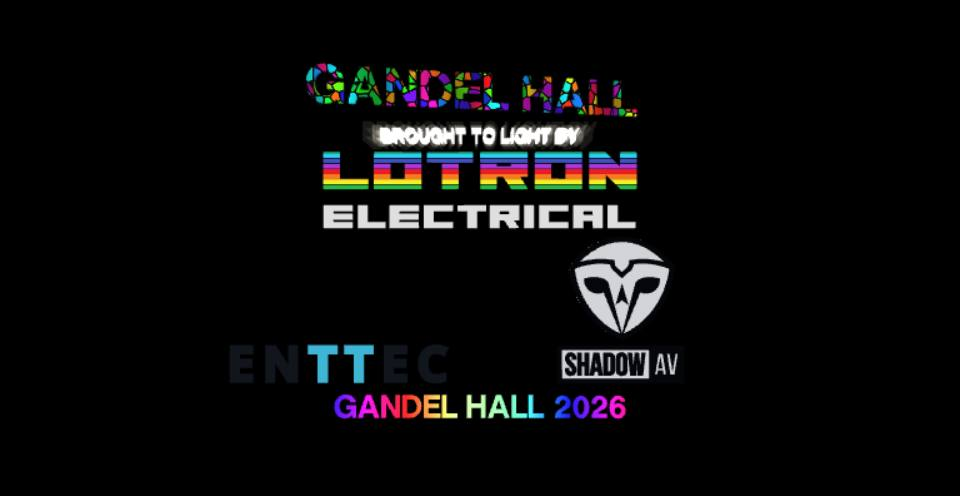
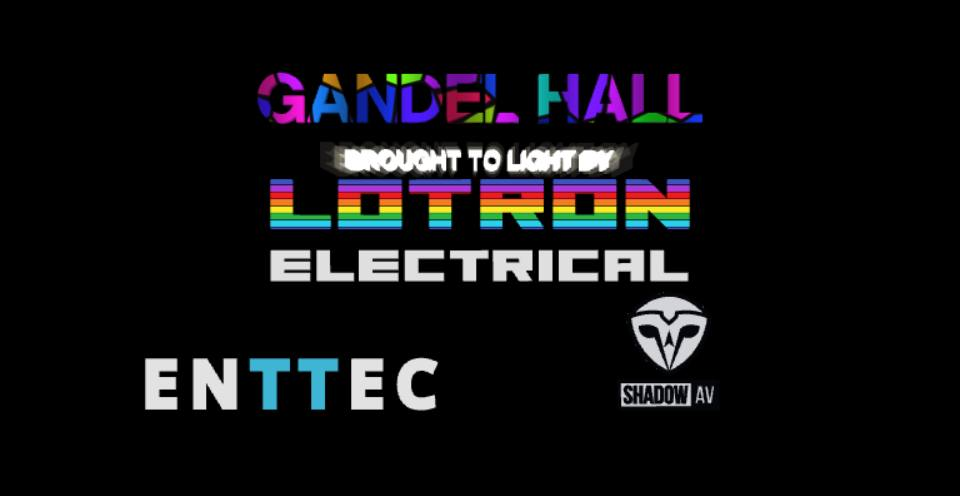
The finale (Lloyd's note, V3) and shot 6: no GANDEL HALL 2026 at the foot (the finale text line is empty; put text back to bring it back); the big GANDEL HALL is low-poly Voronoi glass (panes nearly a letter tall), level and turned square to the camera; ENTTEC's graphite letters go white on the blac
Claude-Session: https://claude.ai/code/session_01JupC9g6UHnowKAwqZM7atT

Changed region(s): [[0.125, 0.121, 0.75, 0.8468]]

diff --git a/index.html b/index.html
@@ -1778,7 +1778,9 @@ function buildCourt(){
   // in common to match on and either dimension used alone leaves one of them a toy beside the
   // others. Width: well inside the disc even sitting ringR off the axis. Height: a shield may stand
   // about twice the height of the two-line Lotron mark. Whichever limit it meets first wins.
-  const maxW=W*0.7, maxH=H*4;
+  // (Lloyd, finale V3) the shield no more than 2.4 Lotron heights, so ENTTEC and Shadow AV come
+  // out about the same size
+  const maxW=W*0.7, maxH=H*2.4;
   const k=Math.min(maxW/(box.max.x-box.min.x), maxH/(box.max.y-box.min.y));
   const grp=new THREE.Group();
   for(const {g,mat,lift} of gs){
@@ -1795,7 +1797,7 @@ function buildCourt(){
  // read as nothing at all. Graphite holds on the paving AND against the night sky behind it.
  // the silver is pushed back a hair in the depth buffer so the ink standing on it never fights it
  const inkMat=new THREE.MeshBasicMaterial({color:0x15171b}), silverMat=new THREE.MeshBasicMaterial({color:0xd4d8de,polygonOffset:true,polygonOffsetFactor:1,polygonOffsetUnits:2}),
-       graphiteMat=new THREE.MeshBasicMaterial({color:0x23272e}), blueMat=new THREE.MeshBasicMaterial({color:0x15a6df});
+       graphiteMat=(court.userData.graphite=new THREE.MeshBasicMaterial({color:0x23272e})), blueMat=new THREE.MeshBasicMaterial({color:0x15a6df});
  partners=[
   // ENTTEC a third of a turn round, its own two blue letters kept
   partner([{d:PARTNER_LOGOS.enttec.white,mat:graphiteMat},{d:PARTNER_LOGOS.enttec.blue,mat:blueMat}], 2*Math.PI/3),
@@ -3339,9 +3341,9 @@ function finaleLayout(){ const {H,W,T}=logo.userData; const pt=Math.max(...partn
  // the year sits at the foot (0.3 up, 0.6 H tall), the partners clear of it, Lotron clear of them
  // (Lloyd, V2) closer together: the partners nearer the middle and Lotron nearer them; and the
  // big GANDEL HALL above the tag, its height in the framing
- const yBot=0.3+0.45*H+1.0, yTop=yBot+pt+0.5, dx=W*0.45, tagY=yTop+T+H*0.5, ts=tag&&tag.userData.size||H*0.34, gBot=tagY+ts*0.85+H*0.35, gH=H*0.95;
+ const yearTxt=TX1('finale',''), yBot=yearTxt?0.3+0.45*H+1.0:0.5, yTop=yBot+pt+0.5, dx=W*0.45, tagY=yTop+T+H*0.5, ts=tag&&tag.userData.size||H*0.34, gBot=tagY+ts*0.85+H*0.35, gH=H*0.95;
  return {H,W,T,yTop,yBot,dx,top:gBot+gH+H*0.2,tagY,gBot,gH,wTot:1.8*W}; }
-function gandelBuild(L){ if(gandelText||!buildCourt.font)return;
+function gandelBuild(L){ if(gandelText||!buildCourt.font)return; if(!TX1('finale','')){ gandelTopBuild(L); return; }
  gandelMat=new THREE.ShaderMaterial({uniforms:{t:{value:0},op:{value:0},x0:{value:0},x1:{value:1}},transparent:true,depthWrite:false,toneMapped:false,
   vertexShader:`varying vec3 vP; void main(){ vP=position; gl_Position=projectionMatrix*modelViewMatrix*vec4(position,1.0); }`,
   // a rainbow running along the letters, sliding slowly, with a soft white glint sweeping over it
@@ -3351,11 +3353,12 @@ function gandelBuild(L){ if(gandelText||!buildCourt.font)return;
  const tg=new TextGeometry(TX1('finale','GANDEL HALL 2026'),{font:buildCourt.font,size:L.H*0.6,height:0.08,curveSegments:3,bevelEnabled:false});
  tg.computeBoundingBox(); const b=tg.boundingBox; tg.translate(-(b.min.x+b.max.x)/2,0,0); tg.computeBoundingBox();
  gandelMat.uniforms.x0.value=tg.boundingBox.min.x; gandelMat.uniforms.x1.value=tg.boundingBox.max.x;
- gandelText=new THREE.Mesh(tg,gandelMat); gandelText.position.set(0,0.3,0); gandelText.visible=false; turntable.add(gandelText);
+ gandelText=new THREE.Mesh(tg,gandelMat); gandelText.position.set(0,0.3,0); gandelText.visible=false; turntable.add(gandelText); gandelTopBuild(L); }
+function gandelTopBuild(L){ if(gandelTop||!buildCourt.font)return;
  // (Lloyd, V2) GANDEL HALL, large, in Voronoi stained glass, above BROUGHT TO LIGHT BY; in the
  // court group like the tag, facing the hall, placed by finaleStep
-  // (Lloyd, V4) low poly: the panes half a letter tall, whatever the size, so the words read
- gandelTopMat=makeGlassMat(false); gandelTopMat.uniforms.cell.value=L.gH*0.5; const tg2=new TextGeometry(TX1('finale-top','GANDEL HALL'),{font:buildCourt.font,size:L.gH,height:0.12,curveSegments:3,bevelEnabled:true,bevelThickness:0.02,bevelSize:0.015,bevelSegments:2});
+  // (Lloyd, finale V3) low poly: the panes nearly a letter tall, so the words read
+ gandelTopMat=makeGlassMat(false); gandelTopMat.uniforms.cell.value=L.gH*0.9; const tg2=new TextGeometry(TX1('finale-top','GANDEL HALL'),{font:buildCourt.font,size:L.gH,height:0.12,curveSegments:3,bevelEnabled:true,bevelThickness:0.02,bevelSize:0.015,bevelSegments:2});
  tg2.computeBoundingBox(); const b2=tg2.boundingBox; tg2.translate(-(b2.min.x+b2.max.x)/2,-b2.min.y,-0.06); tg2.computeVertexNormals();
  gandelTop=new THREE.Mesh(tg2,gandelTopMat); gandelTop.visible=false; gandelTop.quaternion.copy(turntable.quaternion); court.add(gandelTop); }
 function finaleStart(){ if(finale)finaleEnd(); if(!logo||!turntable||partners.length<2)return; const L=finaleLayout(); gandelBuild(L);
@@ -3368,7 +3371,7 @@ function finaleEnd(){ if(!finale)return; for(const [o,h] of finale.homes){ o.pos
  turntable.rotation.y=finale.yaw; turntable.scale.setScalar(finale.scale); if(tag){ tag.userData.baseY=finale.tagY; tag.scale.setScalar(1); } for(const m of glazingMats)m.uniforms.door.value.x=0; if(gandelText)gandelText.visible=false; if(gandelTop)gandelTop.visible=false;
  finaleLights(false); finale=null; }
 // the world off (the court's paving, the hall, the sky) and back on
-function finaleLights(dark){ if(finaleDark===dark)return; finaleDark=dark; if(court)for(const o of court.children){ if(o!==turntable&&o!==tag&&o!==gandelTop)o.visible=!dark; } if(hallGroup)hallGroup.visible=!dark; }
+function finaleLights(dark){ if(finaleDark===dark)return; finaleDark=dark; if(court&&court.userData.graphite)court.userData.graphite.color.set(dark?0xffffff:0x23272e); /* ENTTEC's graphite letters white on the black (Lloyd) */ if(court)for(const o of court.children){ if(o!==turntable&&o!==tag&&o!==gandelTop)o.visible=!dark; } if(hallGroup)hallGroup.visible=!dark; }
 // s: seconds into the shot
 function finaleStep(s){ if(!finale)finaleStart(); if(!finale)return; const F=finale, L=F.L, y0=COURT.origin.y;
  // seen from the hall, -x is the left: ENTTEC there, Shadow AV on the right
@@ -3392,7 +3395,8 @@ function finaleStep(s){ if(!finale)finaleStart(); if(!finale)return; const F=fin
  if(gandelTop){ gandelTop.visible=fk>0; gandelTopMat.uniforms.op.value=Math.min(1,fk*1.5); gandelTopMat.uniforms.t.value=s;
   // above the tag, whose letters do not shrink with the turntable on a phone: its height is
   // taken as it is, the rest scaled
-  gandelTop.position.copy(turntable.position); gandelTop.position.y+=L.gBot*sf; gandelTop.scale.setScalar(sf); }
+  // level and square to the camera (Lloyd): it turns to face the eye rather than the hall
+  gandelTop.position.copy(turntable.position); gandelTop.position.y+=L.gBot*sf; gandelTop.scale.setScalar(sf); gandelTop.lookAt(eye.x,gandelTop.position.y,eye.z); }
  // the dip to black as the flattening begins, and the world gone when it comes back
  const tB=FIN.walk+FIN.rise, dip=s<tB?Math.max(0,(s-(tB-0.6))/0.6):Math.max(0,1-(s-tB)/0.8);
  finaleLights(s>=tB);
@@ -3412,7 +3416,7 @@ function finaleStep(s){ if(!finale)finaleStart(); if(!finale)return; const F=fin
 // line splits off the glint word, ' / ' stacks a second row under the first, and a row in *...*
 // is stained glass ('*Gandel Hall* / Is brought to |light'). finale is the year under the triangle,
 // sculpture the tag over the marks (both built once, so they take the file as it was at load).
-const TOUR_TEXT={"rainbow-columns":[["A unique space",0,4.4],["Carefully crafted over decades",4.4,8.8],["*Gandel Hall* / Is brought to |light",8.8,13.2]],"dinner":[["A space for community.",5.5,11.0]],"banquet":[["Where / ~Rich history and modern tradition / Come together",2.5,13.5]],"party":[["A place to have fun!",2,8]],"party-celebrate":[["and celebrate amongst friends",2.5,8.5]],"standing":[["A space for people to share their stories",2,8]],"wedding-aisle":[["and to celebrate love",2,8]],"finale":[["GANDEL HALL 2026",0,0]],"finale-top":[["GANDEL HALL",0,0]],"sculpture":[["BROUGHT TO LIGHT BY",0,0]]};
+const TOUR_TEXT={"rainbow-columns":[["A unique space",0,4.4],["Carefully crafted over decades",4.4,8.8],["*Gandel Hall* / Is brought to |light",8.8,13.2]],"dinner":[["A space for community.",5.5,11.0]],"banquet":[["Where / ~Rich history and modern tradition / Come together",2.5,13.5]],"party":[["A place to have fun!",2,8]],"party-celebrate":[["and celebrate amongst friends",2.5,8.5]],"standing":[["A space for people to share their stories",2,8]],"wedding-aisle":[["and to celebrate love",2,8]],"finale":[["",0,0]],"finale-top":[["GANDEL HALL",0,0]],"sculpture":[["BROUGHT TO LIGHT BY",0,0]]};
 fetch('storyboard/titles.json?v='+Date.now()).then(r=>r.ok?r.json():null).then(j=>{ if(j)Object.assign(TOUR_TEXT,j); }).catch(()=>{});
 const TX=k=>(TOUR_TEXT[k]||[]).map(([t,a,b])=>[t,a,b]);
 const TX1=(k,d)=>((TOUR_TEXT[k]||[])[0]||[d])[0]||d;
@@ -3473,7 +3477,7 @@ function tourSegments(){ const uM=EVENT.wallLen/2, c=EVENT.cols;
   // (Lloyd's notes) standing: a half circle round the speaker on the stage, 9 m out, facing them
   // the whole way
   {mode:'standing',dur:16,cam:k=>{ const q=smooth(k), a=Math.PI*(0.18+0.64*q), S=EP(uM,1.9,1.6);
-    poseAt(EP(uM+9*Math.cos(a),2.0+0.6*q,1.6+9*Math.sin(a)),S); titlesNow(k*16,TX('standing')); }},
+    poseAt(EP(uM+9*Math.cos(a),2.0+0.6*q,1.6+9*Math.sin(a)),S); titlesNow(k*16,TX('standing')); veil(1-smooth(Math.min(1,k*16/1.5))); }},   /* (Lloyd, V2) fades in from black */
   {mode:'wedding',dur:14, cam:withTitles(glide(EP(uM,1.7,14.2),EP(uM,1.6,5.2),EP(uM,1.5,3.5),EP(uM,1.6,3.0)),14,TX('wedding-aisle'))},
   // Celebrate starts the walk; the camera keeps 3.5 m behind the couple, at their shoulder height
   {celebrate:true,dur:26.5, cam:k=>{ const tw=k*26.5, cp=couple(tw), ahead=couple(Math.min(26,tw+1.5));

diff --git a/tour-storyboard.md b/tour-storyboard.md
@@ -294,7 +294,7 @@ V3 (draft):
 
 Duration 27 s (walk 8, rise 8, flatten 5, hold 4, fade 2). The tour ends here; the picture fades back in on the free view.
 
-Walks at head height through a doorway cut in the glass on the court's axis, out to 6 m into the court, looking at the sculpture. Then the camera drifts back and up to frame the whole triangle while the three marks rise off the turntable and align facing the hall: Lotron on top, ENTTEC bottom left, Shadow AV bottom right, BROUGHT TO LIGHT BY above them. The triangle flattens from 3D to 2D and GANDEL HALL 2026 comes up beneath it in shimmering rainbow; holds 4 s; fades to black. (Lloyd, V2) As the flattening begins the picture dips to black and comes back with the court, the hall and the sky gone: the marks alone on black. The partners sit closer together and Lotron closer above them. GANDEL HALL, large, in Voronoi stained glass, stands above BROUGHT TO LIGHT BY.
+Walks at head height through a doorway cut in the glass on the court's axis, out to 6 m into the court, looking at the sculpture. Then the camera drifts back and up to frame the whole triangle while the three marks rise off the turntable and align facing the hall: Lotron on top, ENTTEC bottom left, Shadow AV bottom right, BROUGHT TO LIGHT BY above them. The triangle flattens from 3D to 2D and GANDEL HALL 2026 comes up beneath it in shimmering rainbow; holds 4 s; fades to black. (Lloyd, V2) As the flattening begins the picture dips to black and comes back with the court, the hall and the sky gone: the marks alone on black. The partners sit closer together and Lotron closer above them. GANDEL HALL, large, in low-poly Voronoi stained glass, stands above BROUGHT TO LIGHT BY, level and square to the camera; there is no year at the foot; ENTTEC's letters turn white on the black, and the two partner marks are about the same size.
 
 | start | middle | end |
 |---|---|---|
